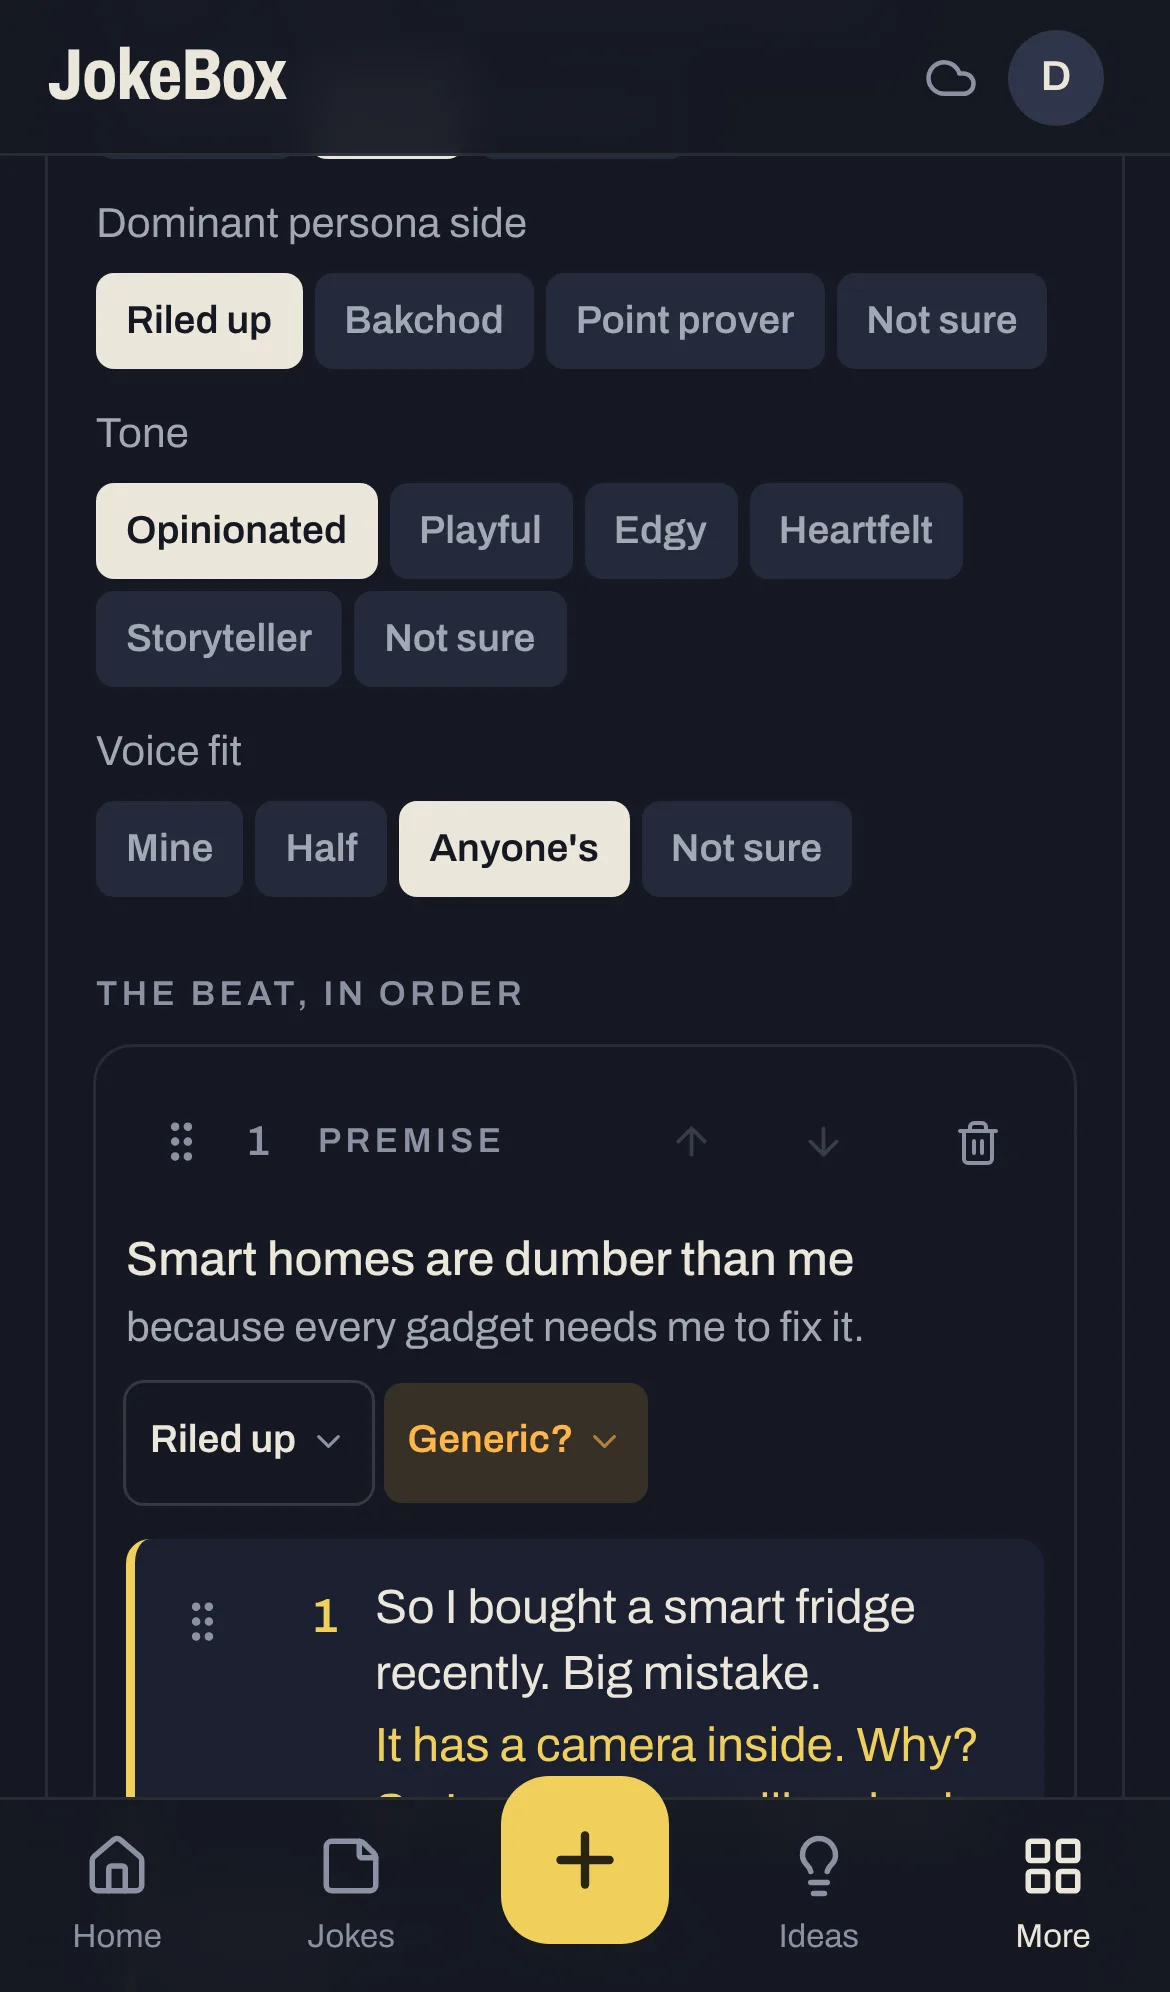
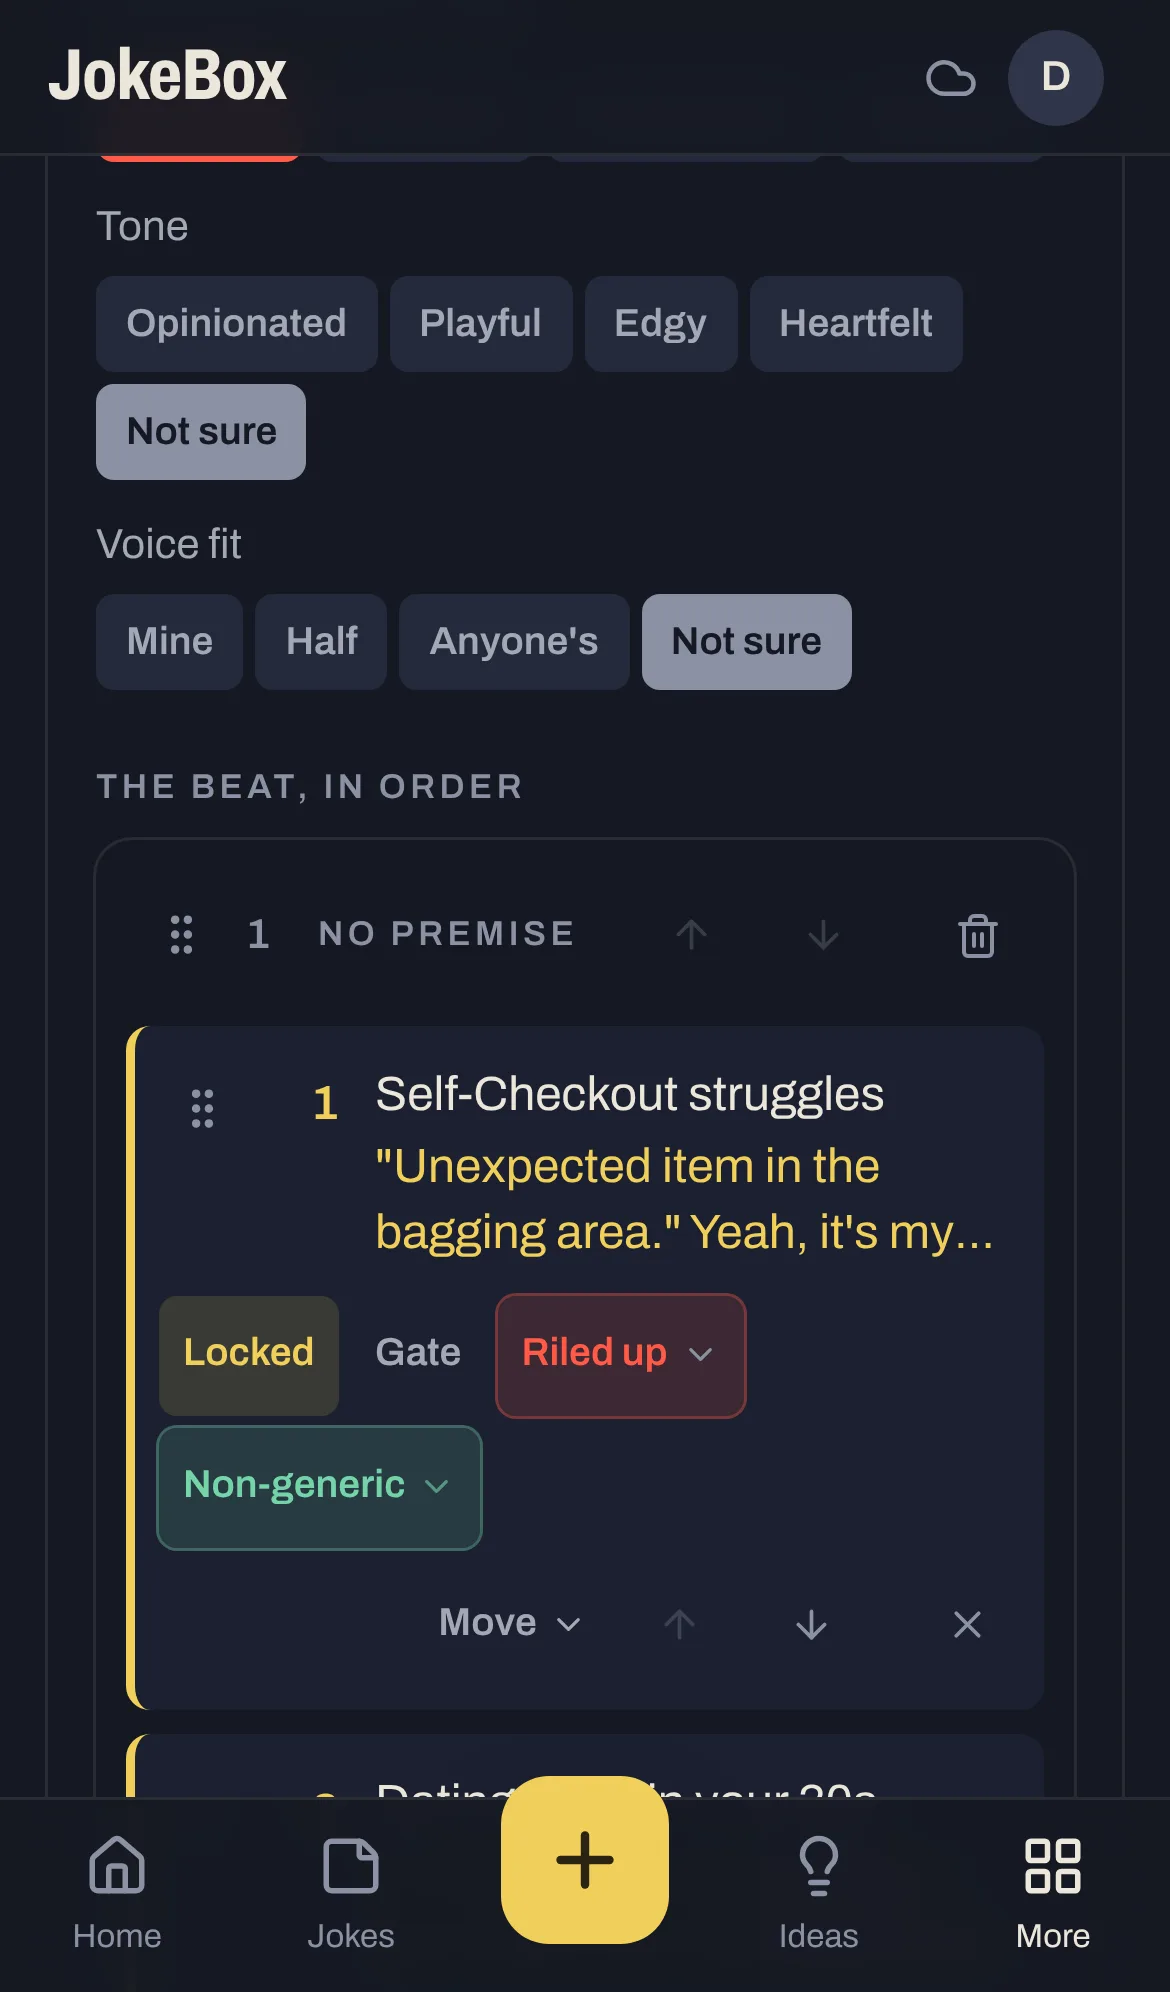
Colour Vibe and Generic everywhere they show (#204)
Riled up red, Bakchod blue, Point prover green, Not sure orange; Generic red, Non-generic green.

Claude-Session: https://claude.ai/code/session_019rjoQoX9Ai7VvaeiusPgbz

diff --git a/web/src/features/jokes/MaterialTags.tsx b/web/src/features/jokes/MaterialTags.tsx
@@ -1,11 +1,13 @@
 /**
  * Vibe and Generic as two small menus, for a joke in a set or a premise in a set: tap to pick.
- * Vibe reads "Vibe" until it's set. Generic shows an amber "Generic?" until it's answered,
+ * Vibe reads "Vibe" (with Not sure's orange dot) until it's set, then wears its colour (vibeTone). Generic shows an amber "Generic?" until it's answered,
  * because every joke and premise should have one (it never blocks a save).
  */
 import { ChevronDown } from 'lucide-react'
 import { Dropdown, type MenuItem } from '../../components/ui/Menu'
 import { GENERIC_ASK, NOT_SURE, VIBE, genericLabel, personaLabel, usePersonaField } from './persona'
+import { VibeDot } from './VibeDot'
+import { genericTone, vibeTone } from './vibeTone'
 
 const chip = 'inline-flex h-8 items-center gap-1 rounded-md px-2 text-[13px] font-semibold transition-colors pointer-coarse:h-10'
 
@@ -14,10 +16,11 @@ export interface Tags { persona?: string | null; generic?: boolean | null }
 export function MaterialTags({ value, onChange, what }: { value: Tags; onChange: (patch: Tags) => void; what: string }) {
   const field = usePersonaField()
   const vibe = personaLabel(value.persona, field)
+  const vibeId = vibe ? value.persona : null
   const generic = genericLabel(value.generic)
   const vibeItems: MenuItem[] = [
-    ...(field?.options ?? []).map((o) => ({ label: o.label, onSelect: () => onChange({ persona: o.id }), checked: vibe === o.label })),
-    { label: NOT_SURE, onSelect: () => onChange({ persona: null }), checked: !vibe },
+    ...(field?.options ?? []).map((o) => ({ label: o.label, icon: <VibeDot id={o.id} />, onSelect: () => onChange({ persona: o.id }), checked: vibe === o.label })),
+    { label: NOT_SURE, icon: <VibeDot id={null} />, onSelect: () => onChange({ persona: null }), checked: !vibe },
   ]
   const genericItems: MenuItem[] = [
     { label: 'Generic', onSelect: () => onChange({ generic: true }), checked: value.generic === true },
@@ -27,13 +30,13 @@ export function MaterialTags({ value, onChange, what }: { value: Tags; onChange:
     <>
       {field && (
         <Dropdown align="start" items={vibeItems} trigger={
-          <button type="button" aria-label={`${VIBE} of ${what}: ${vibe ?? NOT_SURE}`} className={`${chip} ${vibe ? 'text-paper ring-1 ring-rule-strong' : 'text-dim hover:bg-ink-3'}`}>
-            {vibe ?? VIBE}<ChevronDown size={13} className="text-faint" />
+          <button type="button" aria-label={`${VIBE} of ${what}: ${vibe ?? NOT_SURE}`} className={`${chip} ${vibe ? vibeTone(vibeId).chip : 'text-dim hover:bg-ink-3'}`}>
+            {!vibe && <VibeDot id={null} />}{vibe ?? VIBE}<ChevronDown size={13} className="text-faint" />
           </button>
         } />
       )}
       <Dropdown align="start" items={genericItems} trigger={
-        <button type="button" aria-label={`Generic or not, ${what}: ${generic ?? 'not answered'}`} className={`${chip} ${generic ? 'text-paper ring-1 ring-rule-strong' : 'bg-amber/15 text-amber'}`}>
+        <button type="button" aria-label={`Generic or not, ${what}: ${generic ?? 'not answered'}`} className={`${chip} ${value.generic != null ? genericTone(value.generic).chip : 'bg-amber/15 text-amber'}`}>
           {generic ?? GENERIC_ASK}<ChevronDown size={13} className="opacity-60" />
         </button>
       } />

diff --git a/web/src/features/jokes/DetailControls.tsx b/web/src/features/jokes/DetailControls.tsx
@@ -8,6 +8,8 @@ import { CLEAN_LABELS, DEFAULT_TYPES } from '../../lib/jokeMeta'
 import { choice } from '../../components/ui/choice'
 import { NewTypeDialog } from './NewTypeDialog'
 import { GENERIC_ASK, NOT_SURE, VIBE } from './persona'
+import { VibeDot } from './VibeDot'
+import { genericTone, vibeTone } from './vibeTone'
 
 export function TypeToggles({ value, onChange }: { value: string[]; onChange: (v: string[]) => void }) {
   const { data: types = [] } = useTypes()
@@ -42,25 +44,31 @@ export function CleanPicker({ value, onChange }: { value: CleanRating | null; on
   )
 }
 
+const vibeChoice = (id: string | null, on: boolean) =>
+  `hit relative inline-flex h-9 items-center gap-2 rounded-lg px-3 text-sm transition ${on ? vibeTone(id).on : 'bg-ink-3 text-dim hover:text-paper'}`
+
 /** Its vibe: the side of you it shows, from your persona field's options. Not sure is always there. */
 export function PersonaPicker({ field, value, onChange }: { field: SetField; value: string | null; onChange: (v: string | null) => void }) {
   const current = field.options.some((o) => o.id === value) ? value : null
   return (
     <div className="flex flex-wrap gap-2" role="radiogroup" aria-label={VIBE}>
       {field.options.map((o) => (
-        <button key={o.id} type="button" role="radio" aria-checked={current === o.id} onClick={() => onChange(o.id)} className={choice(current === o.id)}>{o.label}</button>
+        <button key={o.id} type="button" role="radio" aria-checked={current === o.id} onClick={() => onChange(o.id)} className={vibeChoice(o.id, current === o.id)}><VibeDot id={o.id} />{o.label}</button>
       ))}
-      <button type="button" role="radio" aria-checked={!current} onClick={() => onChange(null)} className={choice(!current)}>{NOT_SURE}</button>
+      <button type="button" role="radio" aria-checked={!current} onClick={() => onChange(null)} className={vibeChoice(null, !current)}><VibeDot id={null} />{NOT_SURE}</button>
     </div>
   )
 }
+
+const genericChoice = (g: boolean, on: boolean) =>
+  `hit relative h-9 rounded-lg px-3 text-sm transition ${on ? genericTone(g).on : 'bg-ink-3 text-dim hover:text-paper'}`
 
 /** Generic (anyone could do it) or not. Unanswered, it says so in amber until you pick. */
 export function GenericPicker({ value, onChange }: { value: boolean | null; onChange: (v: boolean) => void }) {
   return (
     <div className="flex flex-wrap items-center gap-2" role="radiogroup" aria-label="Generic">
-      <button type="button" role="radio" aria-checked={value === true} onClick={() => onChange(true)} className={choice(value === true)}>Generic</button>
-      <button type="button" role="radio" aria-checked={value === false} onClick={() => onChange(false)} className={choice(value === false)}>Non-generic</button>
+      <button type="button" role="radio" aria-checked={value === true} onClick={() => onChange(true)} className={genericChoice(true, value === true)}>Generic</button>
+      <button type="button" role="radio" aria-checked={value === false} onClick={() => onChange(false)} className={genericChoice(false, value === false)}>Non-generic</button>
       {value == null && <span className="text-sm text-amber">{GENERIC_ASK} Pick one</span>}
     </div>
   )

diff --git a/web/src/features/sets/BeatLabels.tsx b/web/src/features/sets/BeatLabels.tsx
@@ -4,10 +4,15 @@
  * why: Top-up, Planned turn or Clash ("Shift, don't flip").
  */
 import type { Beat, SetField } from '../../api/types'
+import { vibeTone } from '../jokes/vibeTone'
 import { NOT_SURE, SHIFT_REASONS, labelOf, statusField } from './beats'
 
 const seg = (on: boolean, unsure = false) =>
   `min-h-8 rounded-md px-2.5 py-1 text-[13px] font-semibold transition-colors ${on ? (unsure ? 'bg-faint text-ink' : 'bg-paper text-ink') : 'bg-ink-3 text-dim hover:text-paper'}`
+
+/** Dominant persona side wears the Vibe colours (vibeTone); other fields stay plain. */
+const segFor = (persona: boolean, id: string | null, on: boolean) =>
+  persona && on ? `min-h-8 rounded-md px-2.5 py-1 text-[13px] font-semibold transition-colors ${vibeTone(id).on}` : seg(on, id === null)
 
 interface Props {
   beat: Beat
@@ -36,9 +41,9 @@ export function BeatLabels({ beat, previous, fields, needsWhy, onChange }: Props
             <p className="mb-1.5 text-sm text-dim">{f.name}</p>
             <div className="flex flex-wrap gap-1" role="group" aria-label={f.name}>
               {f.options.map((o) => (
-                <button key={o.id} type="button" aria-pressed={current?.id === o.id} className={seg(current?.id === o.id)} onClick={() => set(f.id, o.id)}>{o.label}</button>
+                <button key={o.id} type="button" aria-pressed={current?.id === o.id} className={segFor(f.role === 'persona', o.id, current?.id === o.id)} onClick={() => set(f.id, o.id)}>{o.label}</button>
               ))}
-              <button type="button" aria-pressed={!current} className={seg(!current, true)} onClick={() => set(f.id, null)}>{NOT_SURE}</button>
+              <button type="button" aria-pressed={!current} className={segFor(f.role === 'persona', null, !current)} onClick={() => set(f.id, null)}>{NOT_SURE}</button>
             </div>
           </div>
         )

diff --git a/web/src/features/sets/SetGuide.tsx b/web/src/features/sets/SetGuide.tsx
@@ -52,7 +52,7 @@ export function SetGuide({ open, onOpenChange }: { open: boolean; onOpenChange: 
         <Part title="Labels">
           <p>Each beat gets labels in this set, not on the jokes, because the same joke can play a different status somewhere else. The fields start as Status, Dominant persona side, Tone and Voice fit. Not sure is always there.</p>
           <p>Tap <b className="text-paper">Edit labels</b> to add, rename or delete options and fields. Deleting one tells you how many beats have it first, and they turn to Not sure.</p>
-          <p>Each joke and premise has its own <b className="text-paper">Vibe</b> (Riled up, Bakchod or Point prover, the sides of Dominant persona side) and <b className="text-paper">Generic</b> or Non-generic. Set them right in the set, beside Locked and Gate, or on the joke's or premise's page. Generic shows in amber until you answer it.</p>
+          <p>Each joke and premise has its own <b className="text-paper">Vibe</b> (Riled up, Bakchod or Point prover, the sides of Dominant persona side) and <b className="text-paper">Generic</b> or Non-generic. Set them right in the set, beside Locked and Gate, or on the joke's or premise's page. Vibes wear colours (Riled up red, Bakchod blue, Point prover green, Not sure orange), Generic is red and Non-generic green, and Vibes wear colours (Riled up red, Bakchod blue, Point prover green, Not sure orange), Generic is red and Non-generic green, and Generic shows in amber until you answer it.</p>
           <p>Status options count as a win, neutral (System attack: you and the room against the system together) or a loss. A loss is a humility top-up.</p>
         </Part>
         <Part title="The checks">

diff --git a/web/src/features/jokes/JokePeek.tsx b/web/src/features/jokes/JokePeek.tsx
@@ -17,6 +17,7 @@ import { clock } from '../../lib/duration'
 import { JokeOrigins } from './JokeOrigins'
 import { useHasOrigins } from './useHasOrigins'
 import { genericLabel, personaLabel, usePersonaField } from './persona'
+import { VibeDot } from './VibeDot'
 
 interface Props {
   joke: Joke
@@ -44,8 +45,8 @@ export function JokePeek({ joke, onClose, onAdd, inSet }: Props) {
     ...(premise ? [['Premise', <span key="p" className="line-clamp-2">{premise.take}</span>] as [string, ReactNode]] : []),
     ['Filed under', [topicName(topic), subtopic?.name].filter(Boolean).join(' / ')],
     ['Status', statusOf(joke.status)],
-    ...(personaName ? [['Vibe', personaName] as [string, ReactNode]] : []),
-    ['Generic', genericLabel(joke.generic) ?? <span key="g" className="text-amber">Not answered</span>],
+    ...(personaName ? [['Vibe', <span key="v" className="inline-flex items-center gap-2"><VibeDot id={joke.persona} />{personaName}</span>] as [string, ReactNode]] : []),
+    ['Generic', joke.generic != null ? <span key="g" className={joke.generic ? 'text-light' : 'text-ok'}>{genericLabel(joke.generic)}</span> : <span key="g" className="text-amber">Not answered</span>],
     ...(joke.clean_rating ? [['Clean rating', CLEAN_LABELS[joke.clean_rating]] as [string, ReactNode]] : []),
     ...(joke.language ? [['Language', joke.language] as [string, ReactNode]] : []),
     ...(joke.hashtags.length ? [['Hashtags', joke.hashtags.map((h) => (h.startsWith('#') ? h : `#${h}`)).join(' ')] as [string, ReactNode]] : []),

diff --git a/web/src/features/jokes/vibeTone.ts b/web/src/features/jokes/vibeTone.ts
@@ -1,0 +1,21 @@
+/**
+ * A Vibe's colour, so a set reads at a glance: Riled up red, Bakchod blue, Point prover green,
+ * Not sure orange. Keyed by the default options' ids, so a renamed option keeps its colour; an
+ * option you add yourself stays neutral. Classes are written out whole for Tailwind to find.
+ */
+interface Tone { dot: string; chip: string; on: string }
+
+const TONES: Record<string, Tone> = {
+  'riled-up': { dot: 'bg-light', chip: 'bg-light/15 text-light ring-1 ring-light/40', on: 'bg-light text-ink font-medium' },
+  bakchod: { dot: 'bg-sky', chip: 'bg-sky/15 text-sky ring-1 ring-sky/40', on: 'bg-sky text-ink font-medium' },
+  'point-prover': { dot: 'bg-ok', chip: 'bg-ok/15 text-ok ring-1 ring-ok/40', on: 'bg-ok text-ink font-medium' },
+}
+const NOT_SURE_TONE: Tone = { dot: 'bg-amber', chip: 'bg-amber/15 text-amber', on: 'bg-amber text-ink font-medium' }
+const PLAIN: Tone = { dot: 'bg-dim', chip: 'text-paper ring-1 ring-rule-strong', on: 'bg-paper text-ink font-medium' }
+
+/** The tone for an option id; null (unset or deleted) is Not sure. */
+export const vibeTone = (id: string | null | undefined): Tone => (id ? (TONES[id] ?? PLAIN) : NOT_SURE_TONE)
+
+/** Generic red (anyone could do it), Non-generic green: a chip and a picked button. */
+export const genericTone = (generic: boolean) =>
+  generic ? { chip: 'bg-light/15 text-light ring-1 ring-light/40', on: 'bg-light text-ink font-medium' } : { chip: 'bg-ok/15 text-ok ring-1 ring-ok/40', on: 'bg-ok text-ink font-medium' }

diff --git a/web/src/features/jokes/JokeFilters.tsx b/web/src/features/jokes/JokeFilters.tsx
@@ -21,6 +21,7 @@ import { TypeManager } from './TypeManager'
 import { useNewTopic } from './useNewTopic'
 import { PERSONA_NOT_SURE, SORTS, type FilterKey, type SortKey } from './useJokeFilters'
 import { GENERIC_FILTERS, NOT_SURE, VIBE, usePersonaField } from './persona'
+import { VibeDot } from './VibeDot'
 
 /** What the row reads and changes: the Jokes list's filters (in the URL) or a picker's own. */
 export interface Filters {
@@ -105,8 +106,8 @@ export function JokeFilters({ f, edge = '-mx-4 px-4 sm:-mx-6 sm:px-6 lg:mx-0 lg:
   ]
   const personaItems: MenuItem[] = [
     { label: 'Any vibe', onSelect: () => f.set({ persona: null }), checked: !f.persona },
-    ...(persona?.options ?? []).map((o) => ({ label: o.label, onSelect: () => f.set({ persona: o.id }), checked: f.persona === o.id })),
-    { label: NOT_SURE, onSelect: () => f.set({ persona: PERSONA_NOT_SURE }), checked: f.persona === PERSONA_NOT_SURE },
+    ...(persona?.options ?? []).map((o) => ({ label: o.label, icon: <VibeDot id={o.id} />, onSelect: () => f.set({ persona: o.id }), checked: f.persona === o.id })),
+    { label: NOT_SURE, icon: <VibeDot id={null} />, onSelect: () => f.set({ persona: PERSONA_NOT_SURE }), checked: f.persona === PERSONA_NOT_SURE },
   ]
   const genericItems: MenuItem[] = [
     { label: 'Generic or not', onSelect: () => f.set({ generic: null }), checked: !f.generic },

diff --git a/web/src/features/jokes/VibeDot.tsx b/web/src/features/jokes/VibeDot.tsx
@@ -1,0 +1,6 @@
+/** A Vibe's colour as a small dot, beside its name in menus, pickers and the peek. */
+import { vibeTone } from './vibeTone'
+
+export function VibeDot({ id }: { id: string | null | undefined }) {
+  return <span aria-hidden className={`inline-block size-2.5 shrink-0 rounded-full ${vibeTone(id).dot}`} />
+}

diff --git a/docs/sets.md b/docs/sets.md
@@ -75,10 +75,12 @@ itself, so they're saved on the joke or the premise, not the set.
 - **Vibe** is which side of you it shows: Riled up, Bakchod, Point prover, or Not sure. It picks
   from the persona field's options (the ones a beat's Dominant persona side uses), so there's one
   list. Stored as `persona`, an option id; one deleted later reads as Not sure.
+  Each wears a colour wherever it shows (`vibeTone.ts`): Riled up red, Bakchod blue, Point prover
+  green, Not sure orange; an option you add yourself stays neutral.
 - **Generic** says whether anyone could do it (Generic) or it's yours (Non-generic). Every joke
   and premise should have one, but a save never waits on it: until it's answered it shows an amber
   **Generic?**, and the Generic filter on Jokes and Premises (**Generic not answered**) finds the
-  rest. Stored as `generic`, true, false or null.
+  rest. Stored as `generic`, true, false or null. Generic shows red, Non-generic green.
 
 In a set, both sit beside a joke's Locked and Gate, and under a premise's take, as small menus:
 tap to pick. Picking one saves the joke or premise right away. They're also on the joke's and the
@@ -89,7 +91,7 @@ what's stored.
 <p>
   <img src="screenshots/ipad-premise-vibe.webp" width="300" alt="A premise's Vibe and Generic on an iPad, with Generic not answered yet">
   <img src="screenshots/ipad-joke-vibe.webp" width="300" alt="A joke's Vibe and Generic rows on an iPad">
-  <img src="screenshots/phone-set-vibe.webp" width="200" alt="A premise in a beat on a phone, with its Vibe and an amber Generic?">
+  <img src="screenshots/phone-set-vibe.webp" width="200" alt="A joke in a beat on a phone, with a red Riled up Vibe and a green Non-generic">
 </p>
 
 ## Drag and arrows
